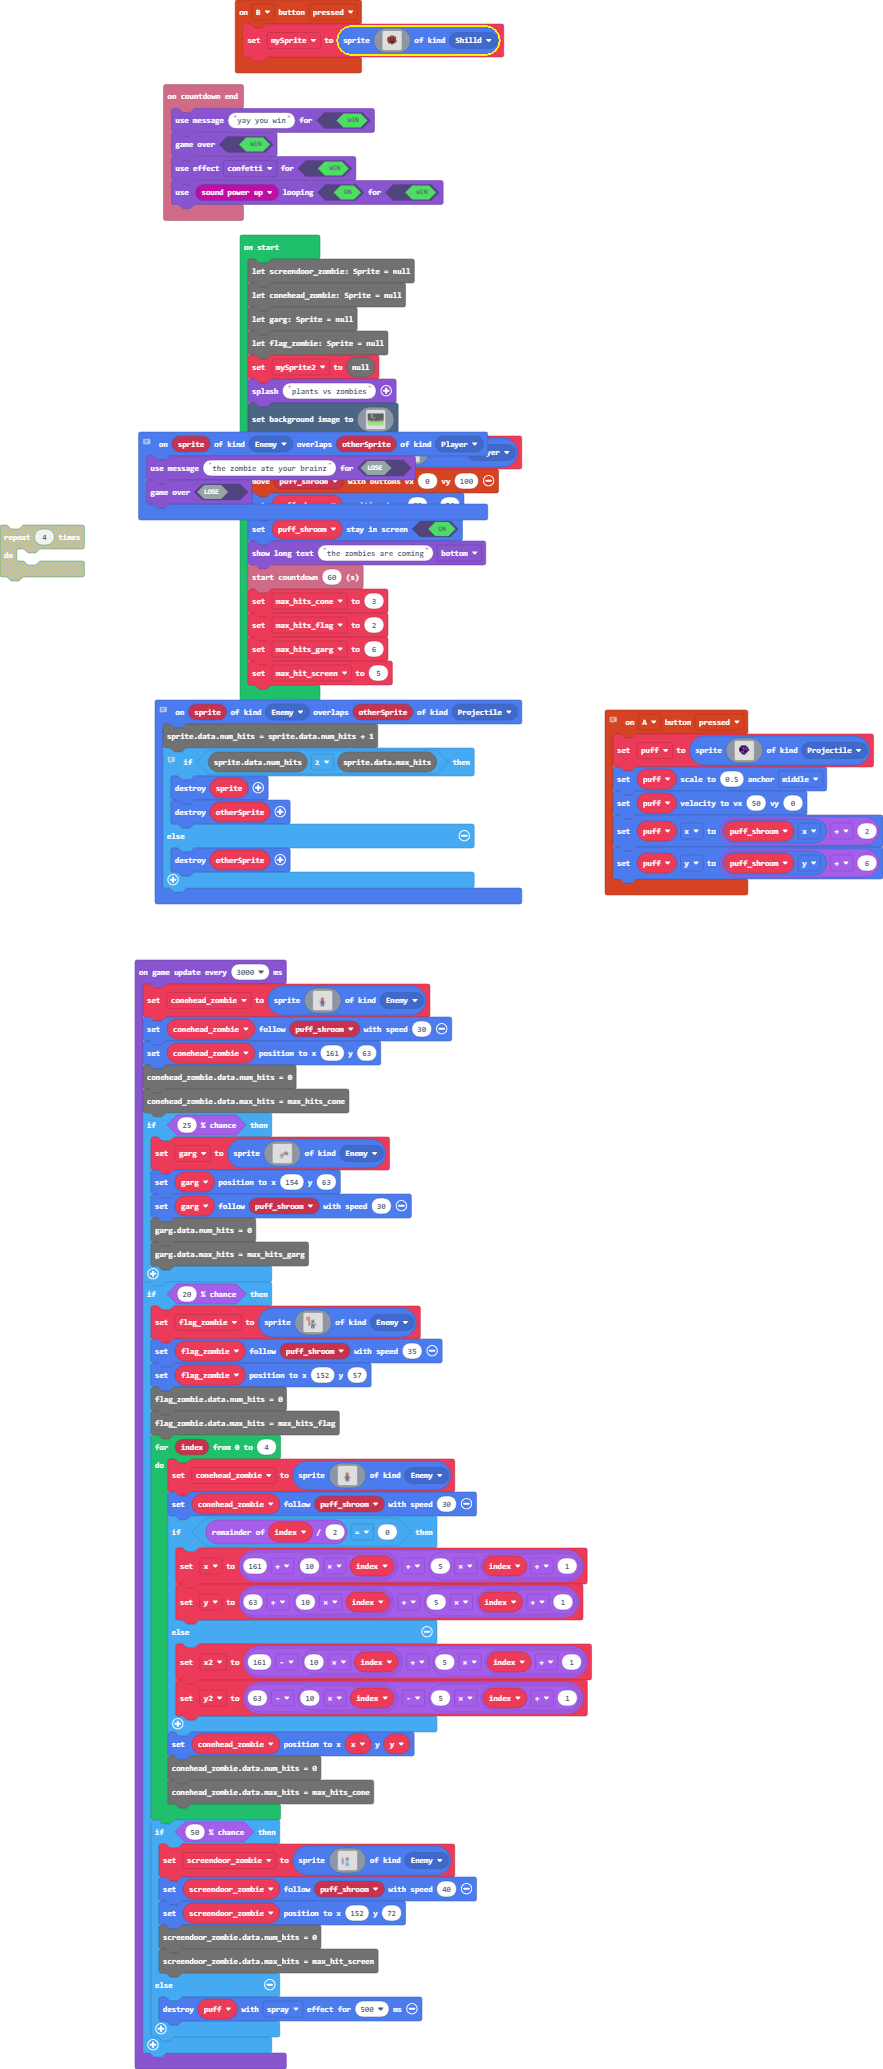
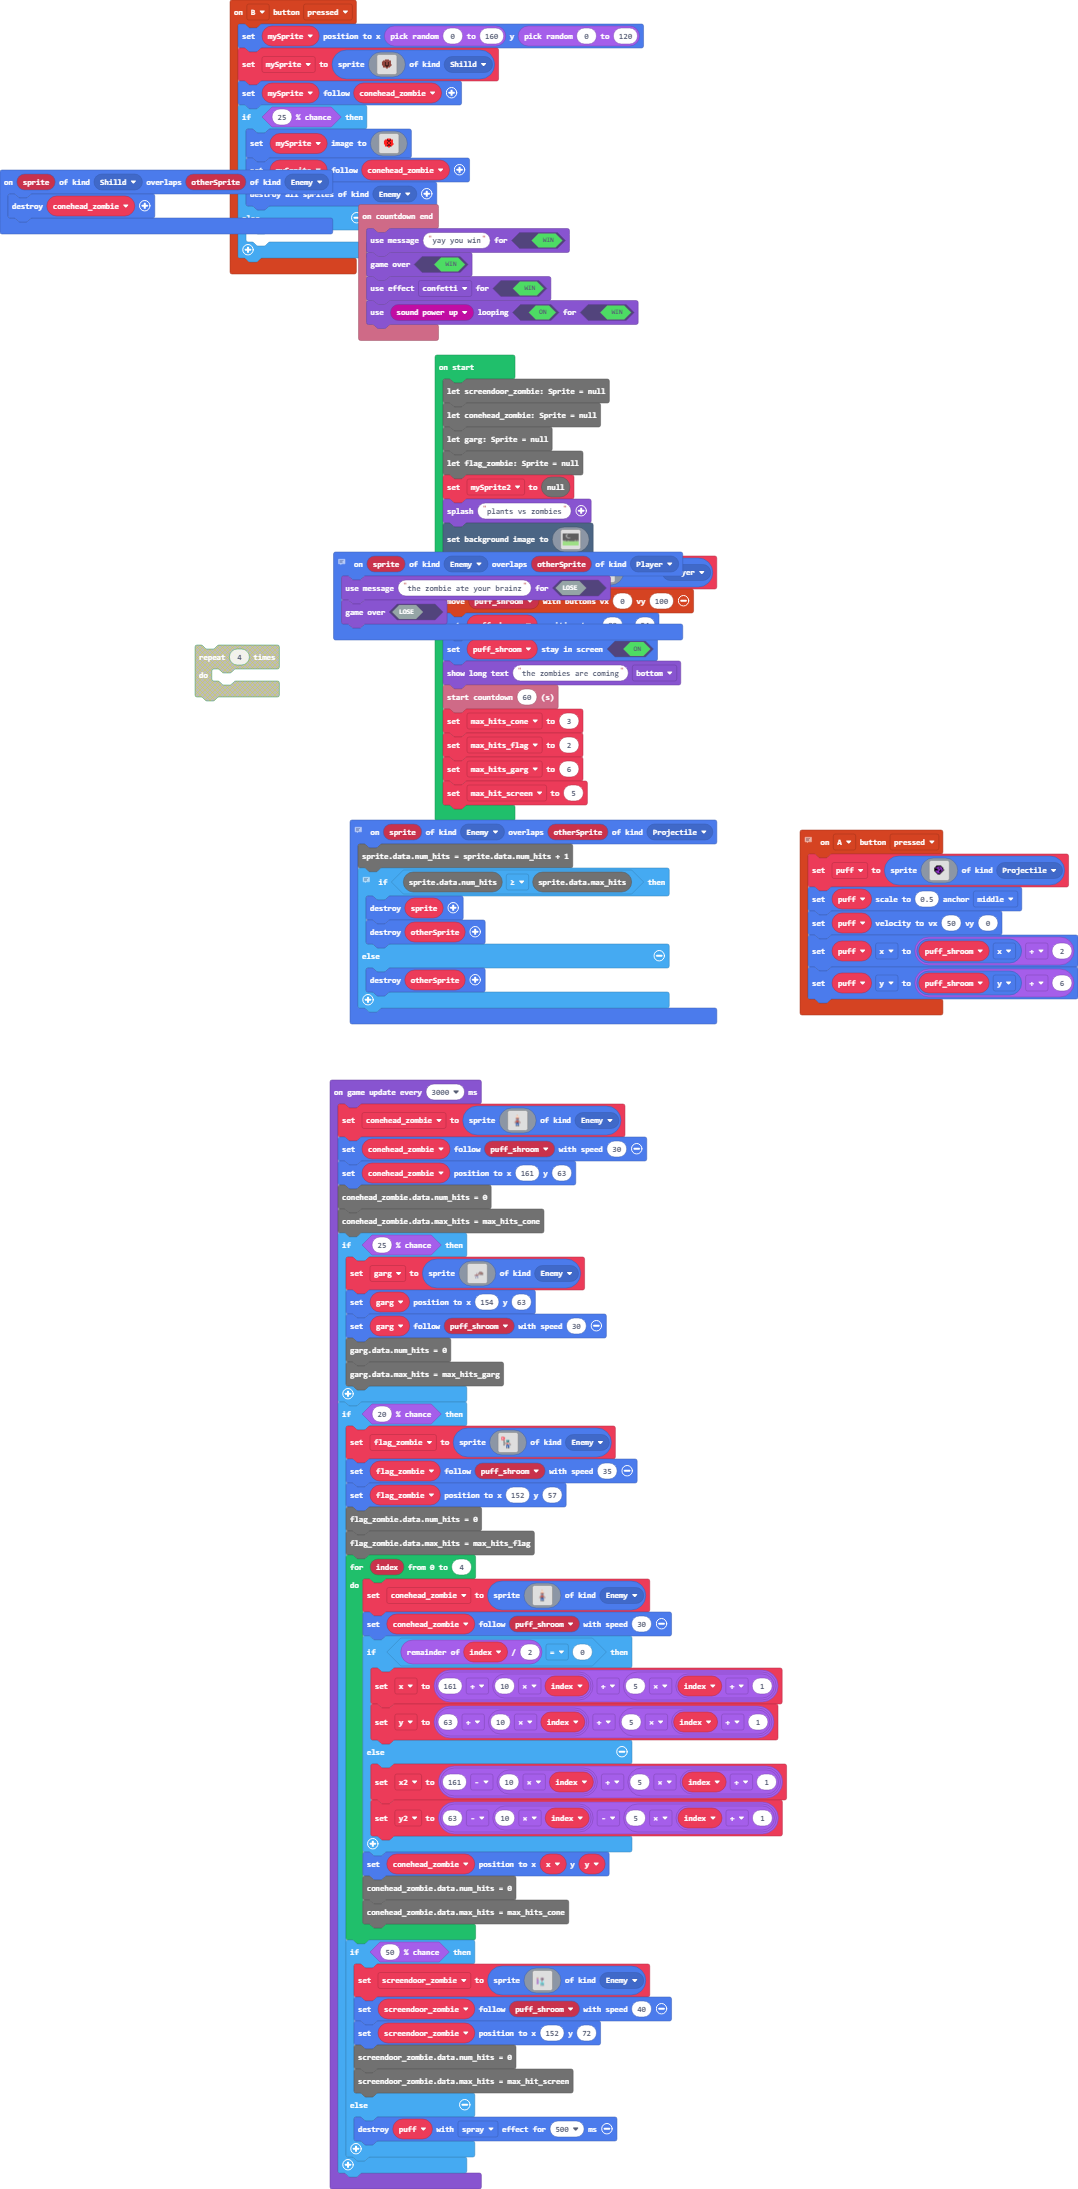
wall nut

diff --git a/main.ts b/main.ts
@@ -2,24 +2,16 @@ namespace SpriteKind {
     export const Shilld = SpriteKind.create()
 }
 controller.B.onEvent(ControllerButtonEvent.Pressed, function () {
-    mySprite = sprites.create(img`
-        . . . . . . . . . . . . . . . . 
-        . . . . . . . . . . . . . . . . 
-        . . . . . . . . . . . . . . . . 
-        . . . . . . e e e e . . . . . . 
-        . . . . e e e e e e e e . . . . 
-        . . . e e e e e e e e e . . . . 
-        . . . e e e f e e f e e . . . . 
-        . . . e e e e e e e e e . . . . 
-        . . . e e e f e e f e e e . . . 
-        . . . . e e e f f e e e . . . . 
-        . . . . e e e e e e e . . . . . 
-        . . . . . . . e e . . . . . . . 
-        . . . . . . . . . . . . . . . . 
-        . . . . . . . . . . . . . . . . 
-        . . . . . . . . . . . . . . . . 
-        . . . . . . . . . . . . . . . . 
-        `, SpriteKind.Shilld)
+    mySprite.setPosition(randint(0, 160), randint(0, 120))
+    mySprite = sprites.create(assets.image`myImage0`, SpriteKind.Shilld)
+    mySprite.follow(conehead_zombie)
+    if (Math.percentChance(25)) {
+        mySprite.setImage(assets.image`myImage1`)
+        mySprite.follow(conehead_zombie)
+        sprites.destroyAllSpritesOfKind(SpriteKind.Enemy)
+    } else {
+    	
+    }
 })
 // This is the code for shooting puffs
 controller.A.onEvent(ControllerButtonEvent.Pressed, function () {
@@ -62,6 +54,9 @@ info.onCountdownEnd(function () {
     game.gameOver(true)
     game.setGameOverEffect(true, effects.confetti)
     game.setGameOverPlayable(true, music.melodyPlayable(music.powerUp), true)
+})
+sprites.onOverlap(SpriteKind.Shilld, SpriteKind.Enemy, function (sprite, otherSprite) {
+    sprites.destroy(conehead_zombie)
 })
 // This is the code block for game over
 sprites.onOverlap(SpriteKind.Enemy, SpriteKind.Player, function (sprite, otherSprite) {

diff --git a/images.g.ts b/images.g.ts
@@ -32,6 +32,44 @@ namespace myImages {
 ..........................
 ..........................
 `;
+            case "image2":
+            case "myImage0":return img`
+. . . . . . . . . . . . . . . . 
+. . . . . . . . . . . . . . . . 
+. . . . . . . . . . . . . . . . 
+. . . . . . e e e e . . . . . . 
+. . . . e e e e e e e e . . . . 
+. . . e e e e e e e e e . . . . 
+. . . e e e f e e f e e . . . . 
+. . . e e e e e e e e e . . . . 
+. . . e e e f e e f e e e . . . 
+. . . . e e e f f e e e . . . . 
+. . . . e e e e e e e . . . . . 
+. . . . . . . e e . . . . . . . 
+. . . . . . . . . . . . . . . . 
+. . . . . . . . . . . . . . . . 
+. . . . . . . . . . . . . . . . 
+. . . . . . . . . . . . . . . . 
+`;
+            case "image3":
+            case "myImage1":return img`
+. . . . . . . . . . . . . . . . 
+. . . . . . . . . . . . . . . . 
+. . . . . . . . . . . . . . . . 
+. . . . . . 2 2 2 2 . . . . . . 
+. . . . 2 2 f 2 2 f 2 2 . . . . 
+. . . 2 2 2 2 f f 2 2 2 . . . . 
+. . . 2 2 2 2 2 2 2 2 2 . . . . 
+. . . 2 2 2 f 2 2 f 2 2 . . . . 
+. . . 2 2 2 2 2 2 2 2 2 2 . . . 
+. . . . 2 2 2 f f 2 2 2 . . . . 
+. . . . 2 2 f 2 2 f 2 . . . . . 
+. . . . . . . 2 2 . . . . . . . 
+. . . . . . . . . . . . . . . . 
+. . . . . . . . . . . . . . . . 
+. . . . . . . . . . . . . . . . 
+. . . . . . . . . . . . . . . . 
+`;
         }
         return null;
     })
